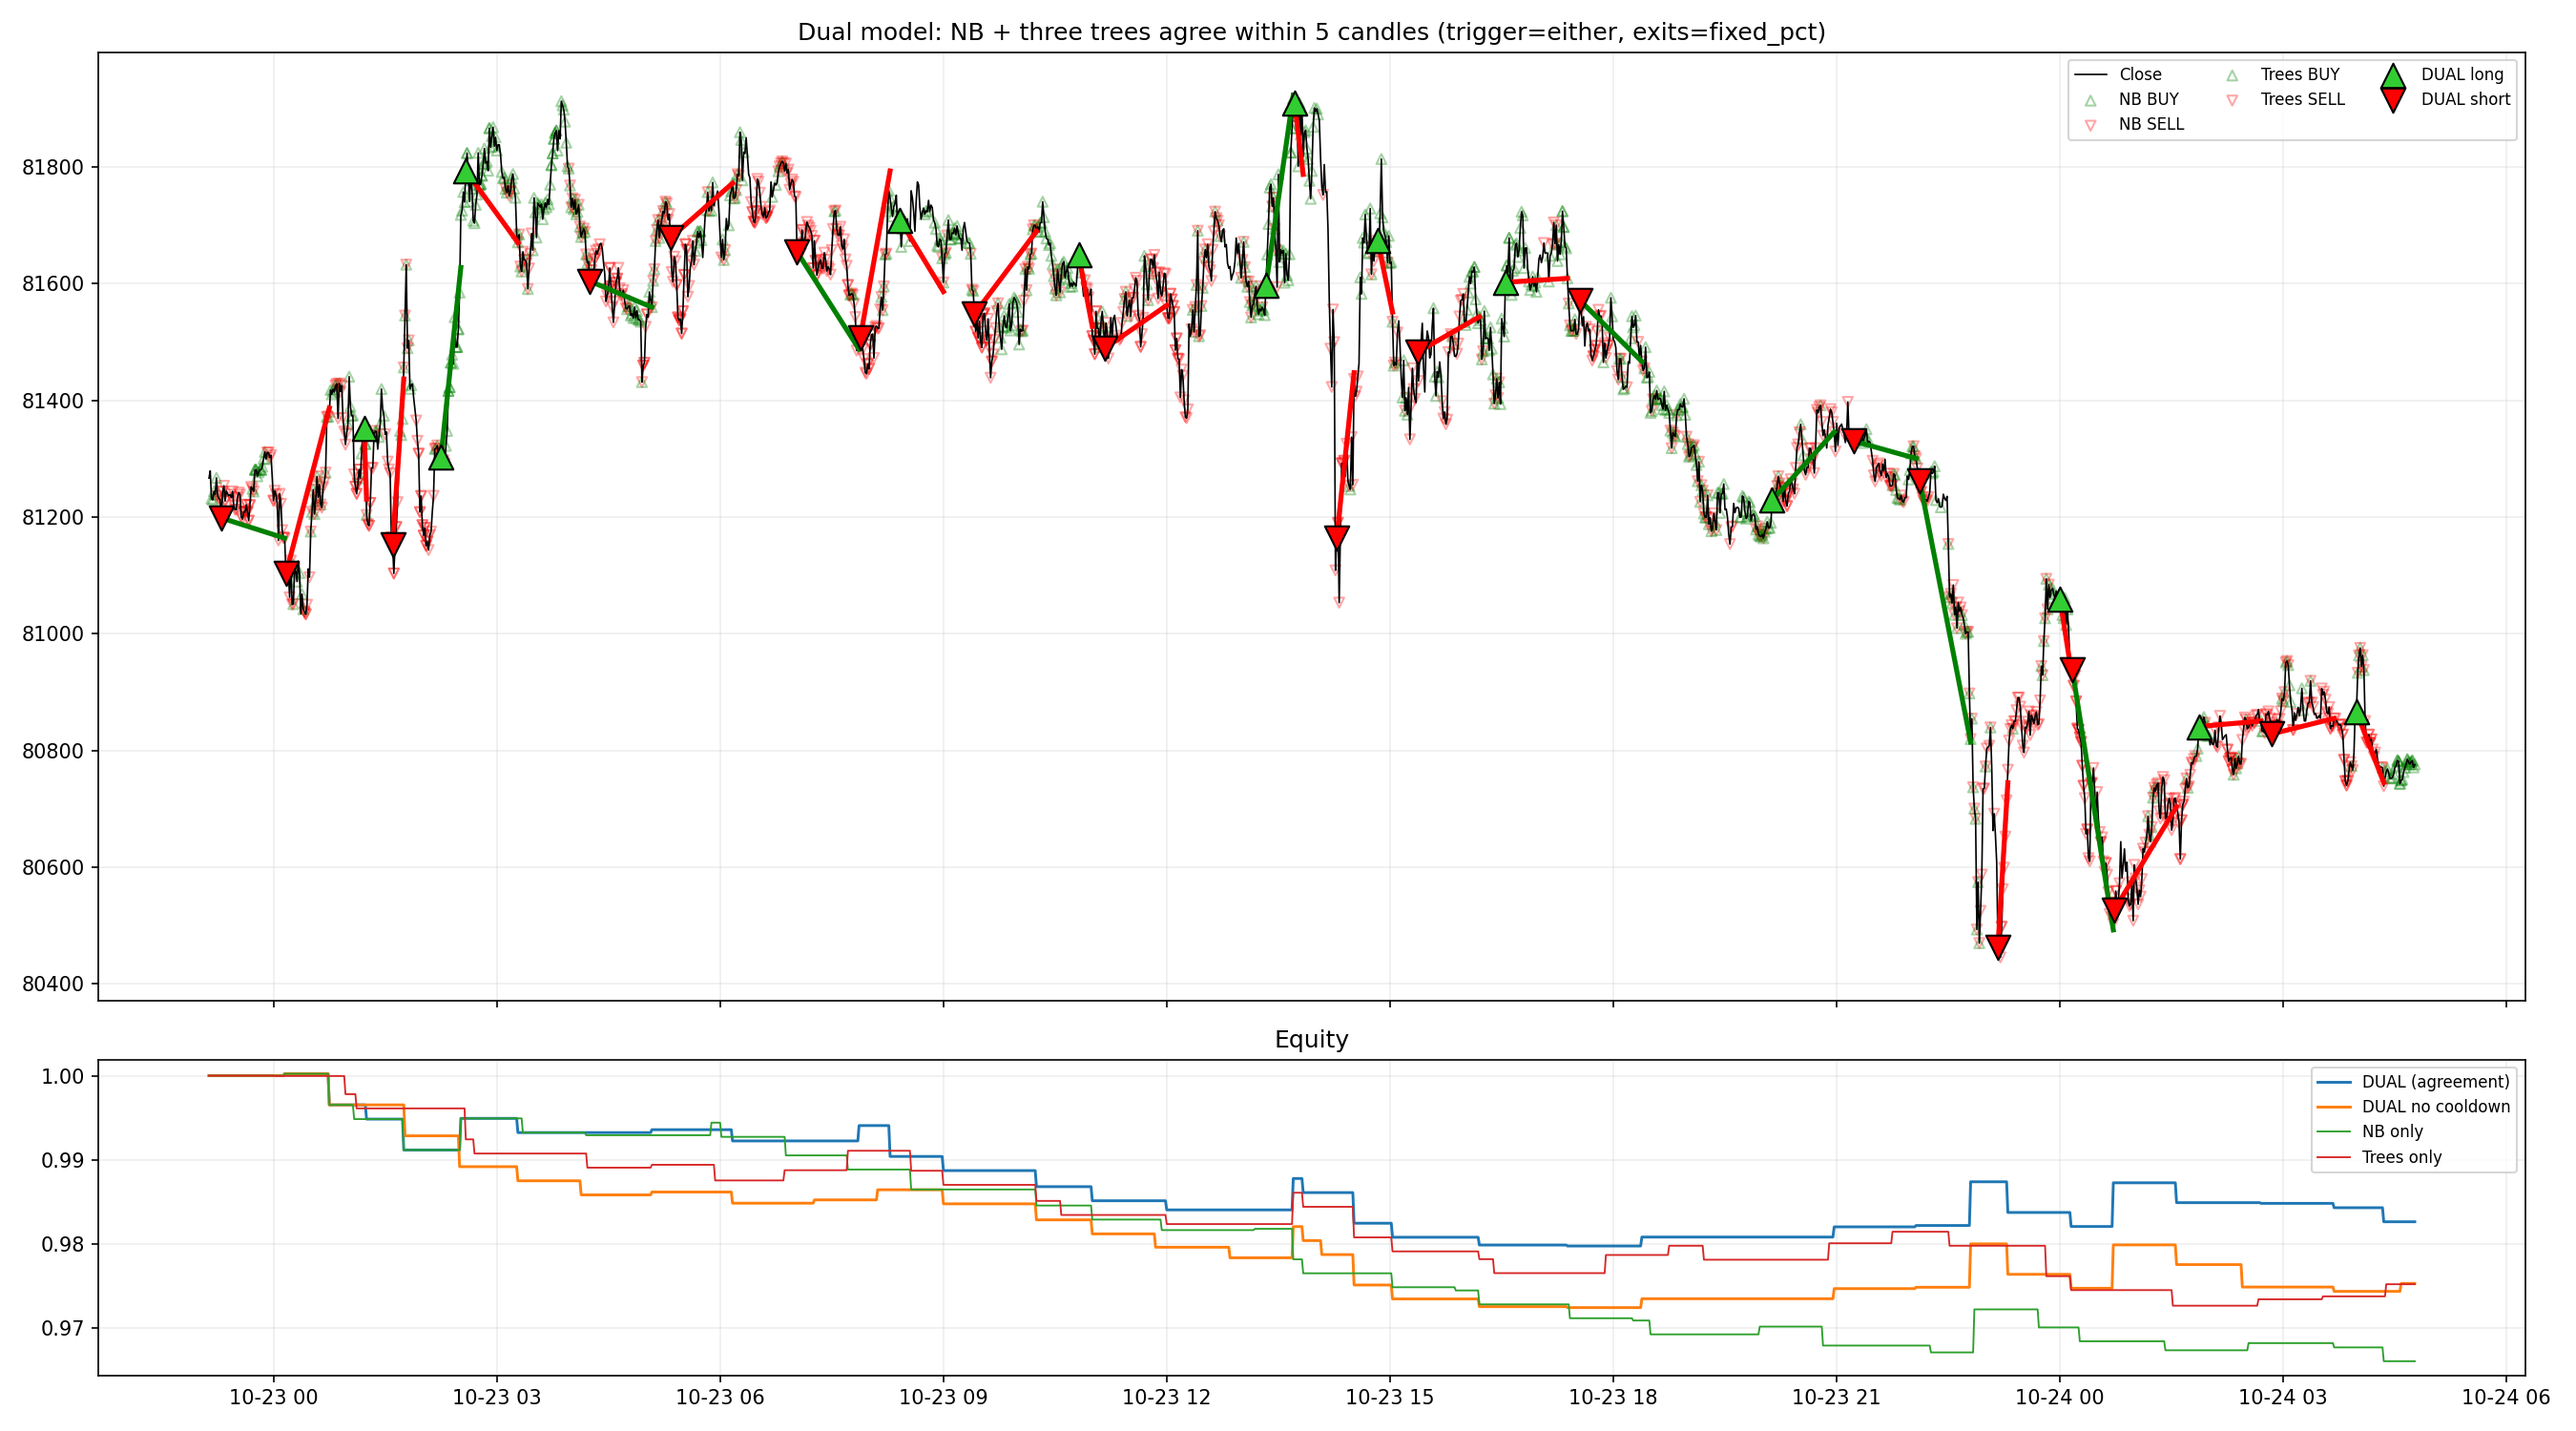
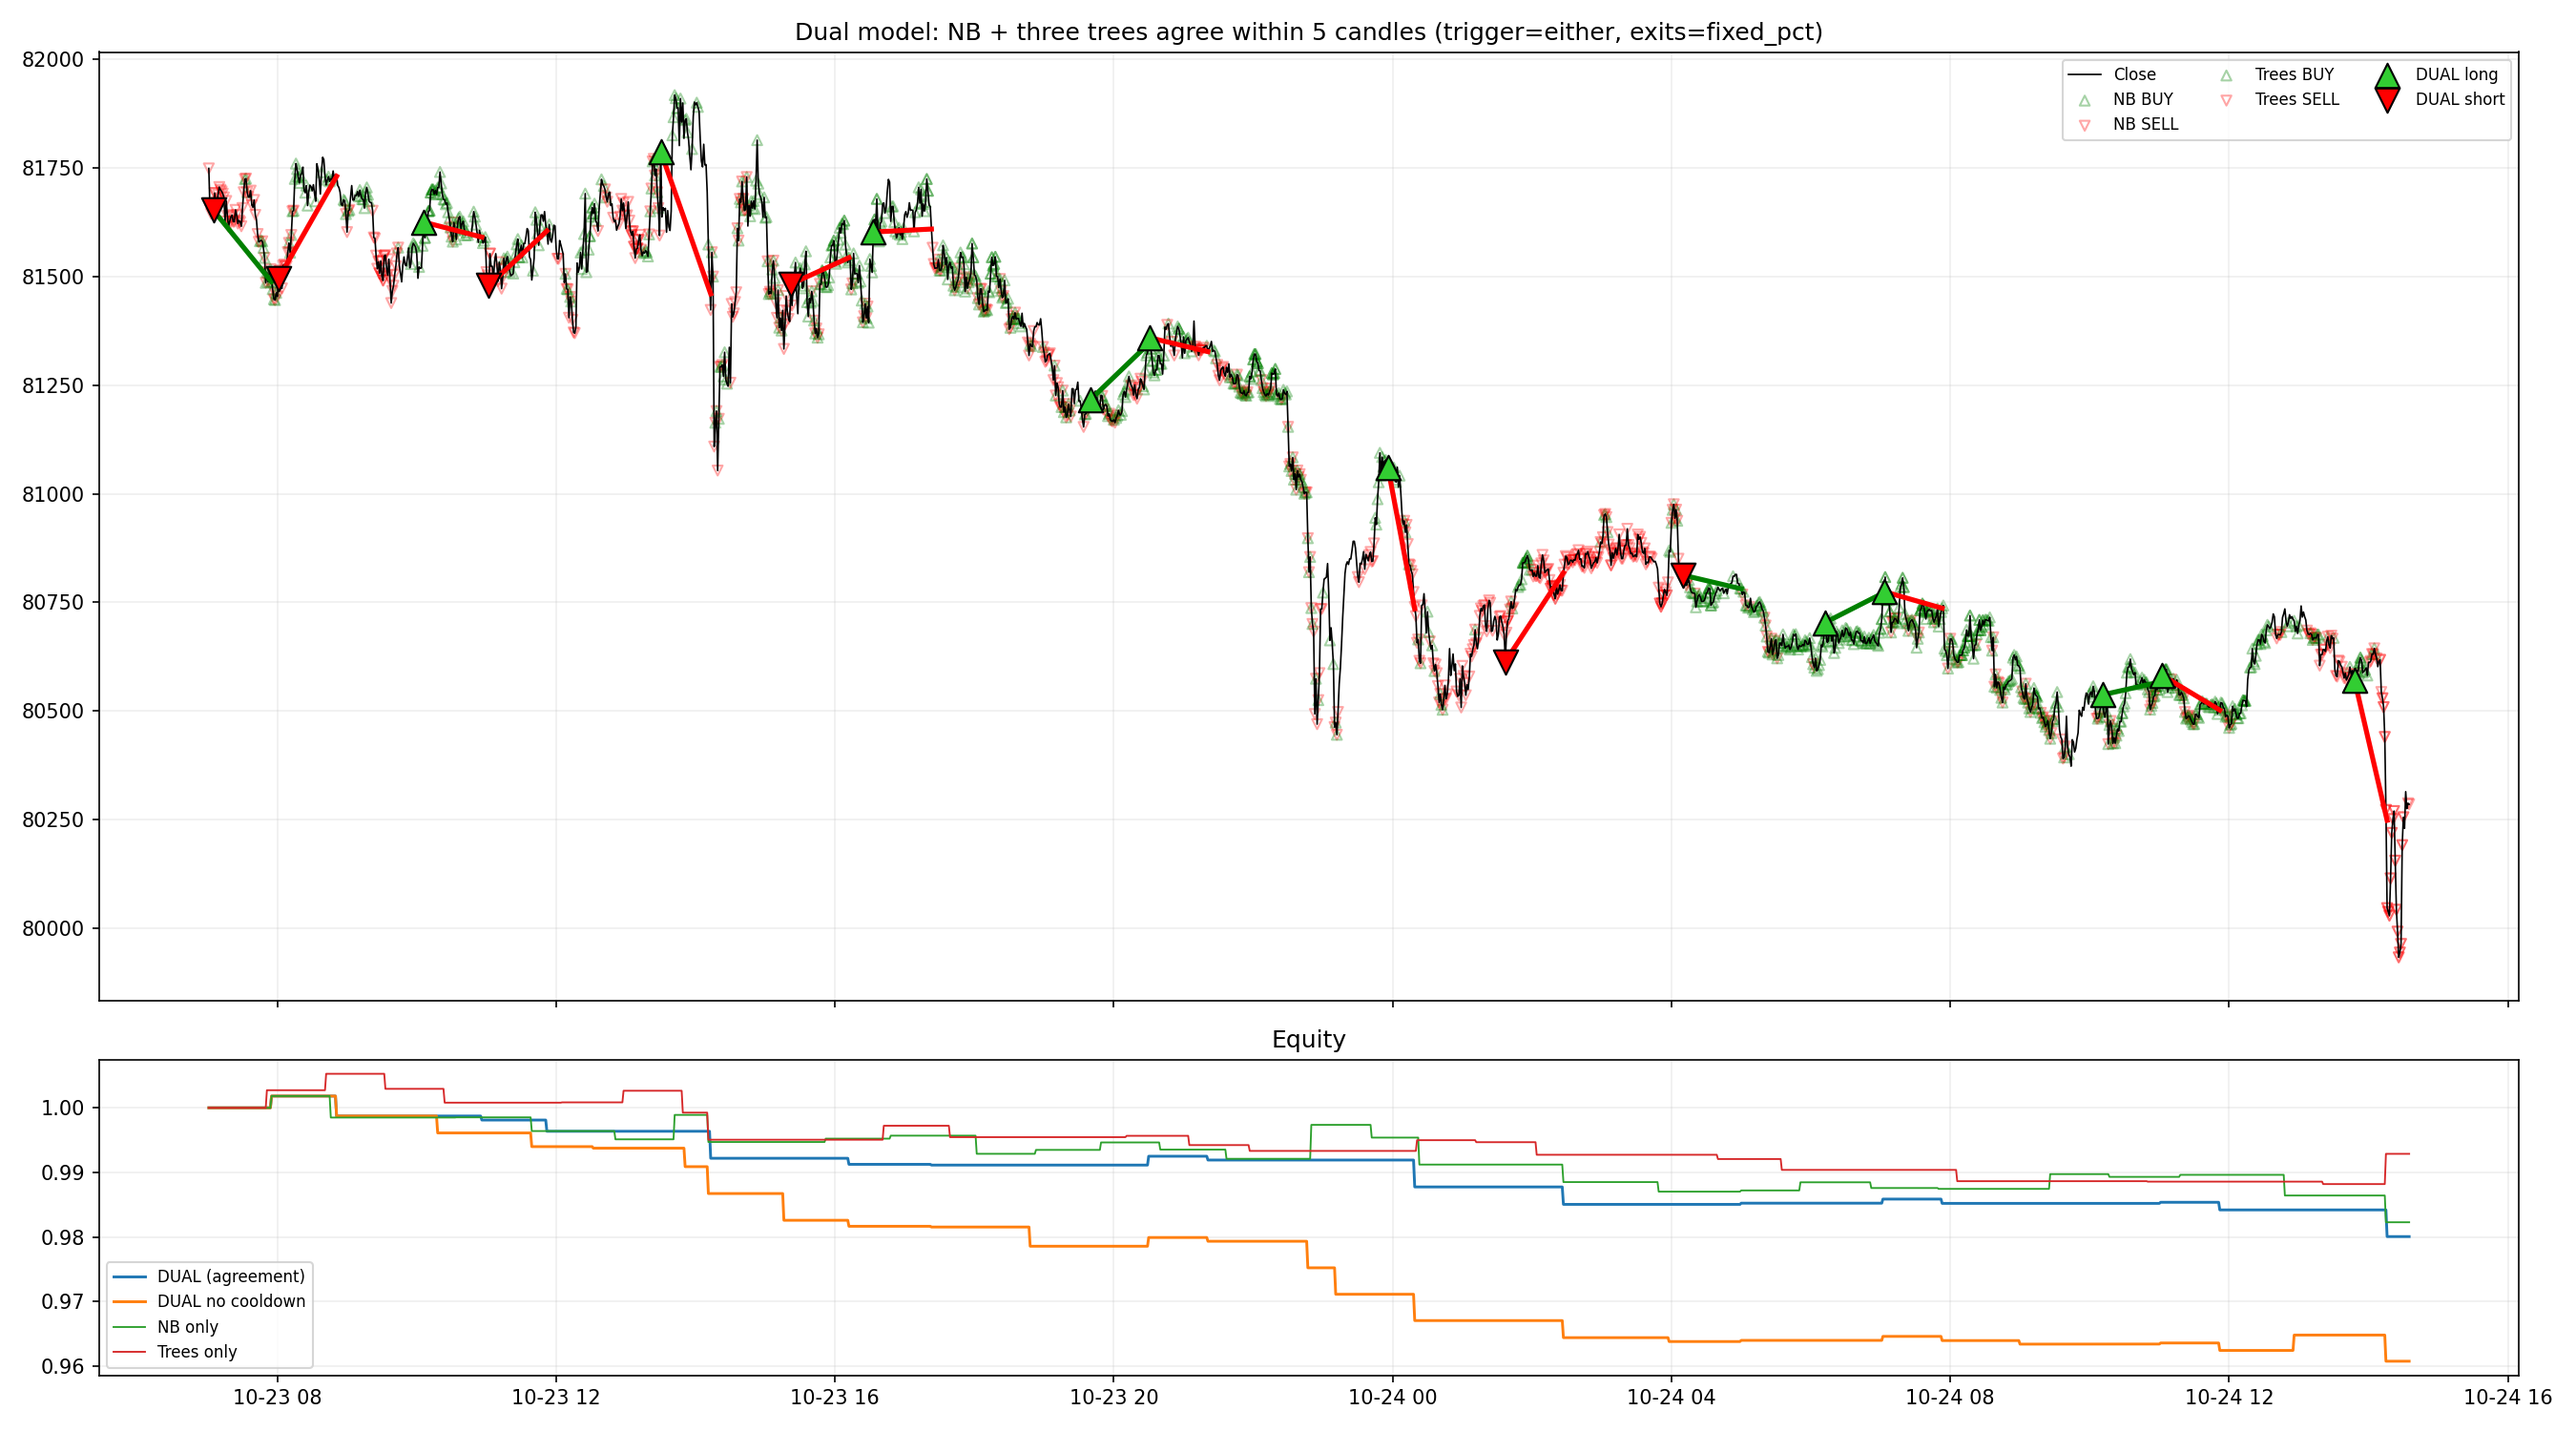
added updating Naive Bayes state for new untrained data over time?

diff --git a/nb_state_updater.py b/nb_state_updater.py
@@ -1,0 +1,60 @@
+import os
+import joblib
+import numpy as np
+import pandas as pd
+from sklearn.naive_bayes import BernoulliNB
+from dataset_builder import BUY, HOLD, SELL, FORWARD_BARS
+
+STATE_PATH = "nb_state.joblib"
+CLASSES = np.array([SELL, HOLD, BUY])          # partial_fit needs this on the first call
+
+
+def load_state():
+    if os.path.exists(STATE_PATH):
+        return joblib.load(STATE_PATH)
+    return {"models": {}, "trained_through": None, "alpha": 1.0}
+
+
+def save_state(state):
+    joblib.dump(state, STATE_PATH)
+
+
+def update_models(datasets, bool_cols, state, base_index, alpha=None):
+    """Feed each per-offset model ONLY the blocks it hasn't seen yet."""
+    bar = base_index.to_series().diff().median()
+    new_end = base_index[-1] - FORWARD_BARS * bar     # labels need FORWARD_BARS to resolve
+    last = state["trained_through"]
+    alpha = alpha if alpha is not None else state["alpha"]
+
+    for k, ds in datasets.items():
+        m = np.asarray(ds.index < new_end)
+        if last is not None:
+            m &= np.asarray(ds.index >= last)
+        if m.sum() == 0:
+            continue
+        if k not in state["models"]:
+            state["models"][k] = BernoulliNB(alpha=alpha, binarize=None)
+        state["models"][k].partial_fit(ds.loc[m, bool_cols], ds.loc[m, "target"],
+                                       classes=CLASSES)
+
+    state["trained_through"] = new_end
+    state["alpha"] = alpha
+    return state
+
+
+if __name__ == "__main__":
+    # build bunched datasets, update models, save state
+    from bunched_datasets import build_bunched_datasets, META_COLS
+
+    datasets, base = build_bunched_datasets(return_base=True)
+    bool_cols = [c for c in datasets[0].columns if c not in META_COLS]
+    state = load_state()
+    state = update_models(datasets, bool_cols, state, base.index)
+    save_state(state)
+    models = state["models"]   # drop-in for score_blocks(models, ...)
+# datasets, base = build_bunched_datasets(return_base=True)
+# bool_cols = [c for c in datasets[0].columns if c not in META_COLS]
+# state = load_state()
+# state = update_models(datasets, bool_cols, state, base.index)
+# save_state(state)
+# models = state["models"]   # drop-in for score_blocks(models, ...)

diff --git a/nb_trees_backtest.py b/nb_trees_backtest.py
@@ -59,12 +59,12 @@ EXIT_MODE = "fixed_pct"       # "fixed_pct" | "breaker"
 # Side-specific exits from signal_explorer (best TRAIN pair per side).
 # NOTE: tuned on 1m bars - re-run signal_explorer on PRIMARY_TF if it isn't 1m.
 BUY_TARGET_PCT = 0.0040       # +0.40%
-BUY_STOP_PCT = 0.0015         # -0.15%
+BUY_STOP_PCT = 0.0040        # -0.15%
 SELL_TARGET_PCT = 0.0055      # -0.55%
-SELL_STOP_PCT = 0.0035        # +0.35%
+SELL_STOP_PCT = 0.0055        # +0.35%
 MAX_HOLD_BARS = 50            # in PRIMARY_TF candles
 FEE_BPS = 1.0                 # per side
-LOSS_COOLDOWN_BARS = 50       # after a losing trade, skip signals for this many candles (0 = off)
+LOSS_COOLDOWN_BARS = 100       # after a losing trade, skip signals for this many candles (0 = off)
 COOLDOWN_PER_SIDE = True      # True = pause only the side that lost | False = pause both sides
 
 # ── Bar tuning (lookback / hold / cooldown) ──────────────────────────────────

diff --git a/nb_bunched_backtest.py b/nb_bunched_backtest.py
@@ -12,10 +12,10 @@ FEE_BPS = 1.0
 
 # Side-specific exits, optimized in signal_explorer (best TRAIN pair per side)
 BUY_TARGET_PCT  = 0.0040    # +0.40%
-BUY_STOP_PCT    = 0.0015    # -0.15%
-SELL_TARGET_PCT = 0.0055    # -0.55%
-SELL_STOP_PCT   = 0.0035 
-TRAIN_FRAC = 0.8             # last (1 - TRAIN_FRAC) of the timeline = walk-forward test region
+BUY_STOP_PCT    = 0.0040    # -0.15%
+SELL_TARGET_PCT = 0.0040    # -0.55%
+SELL_STOP_PCT   = 0.0040 
+TRAIN_FRAC = 0.95             # last (1 - TRAIN_FRAC) of the timeline = walk-forward test region
 
 # "start" -> enter at the FIRST 1m bar of the 5-bar sample (lookahead, optimistic)
 # "end"   -> enter at the LAST 1m bar, i.e. when the sample is actually complete

diff --git a/nb_alpaca_trader.py b/nb_alpaca_trader.py
@@ -59,7 +59,7 @@ API_KEY    = os.environ["ALPACA_API_KEY"]
 SECRET_KEY = os.environ["ALPACA_SECRET_KEY"]
 PAPER      = True            # True = paper trading; False = live money
 
-SYMBOL      = "SPY"          # match the ticker the models were trained on
+SYMBOL      = "BTC"          # match the ticker the models were trained on
 DATA_FEED   = "iex"          # "iex" (free plan) or "sip" (paid plan)
 FETCH_BARS  = 600            # 1m bars fetched each cycle so indicators can warm up
 ORDER_QTY   = 1              # whole shares (bracket orders need whole shares)
